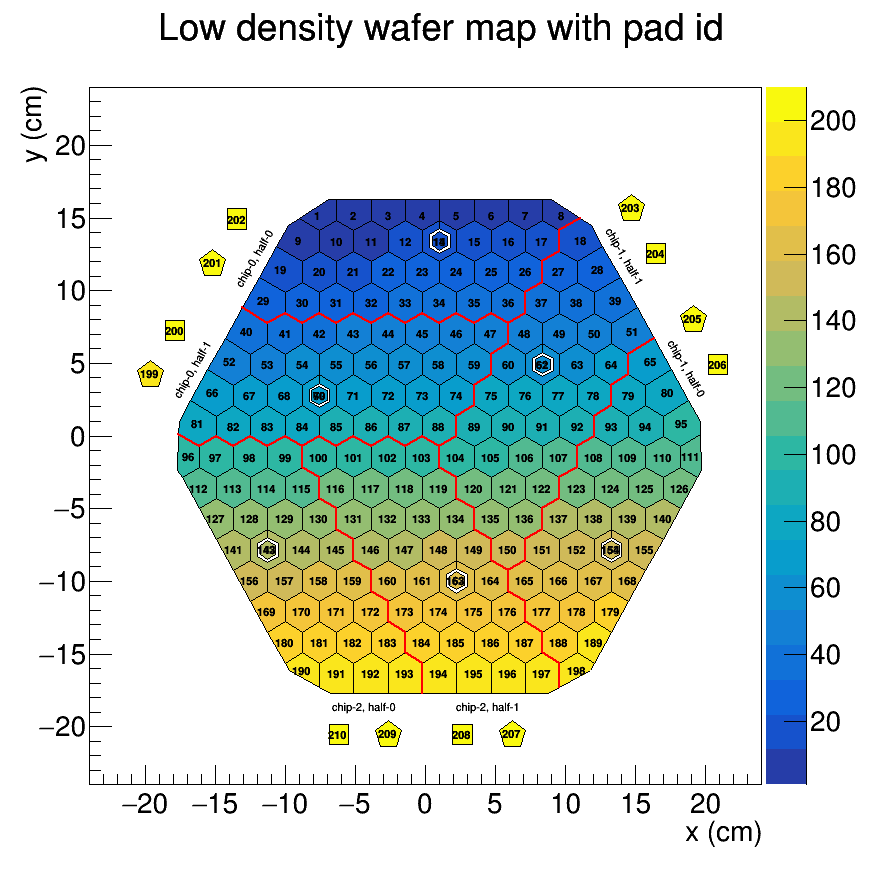
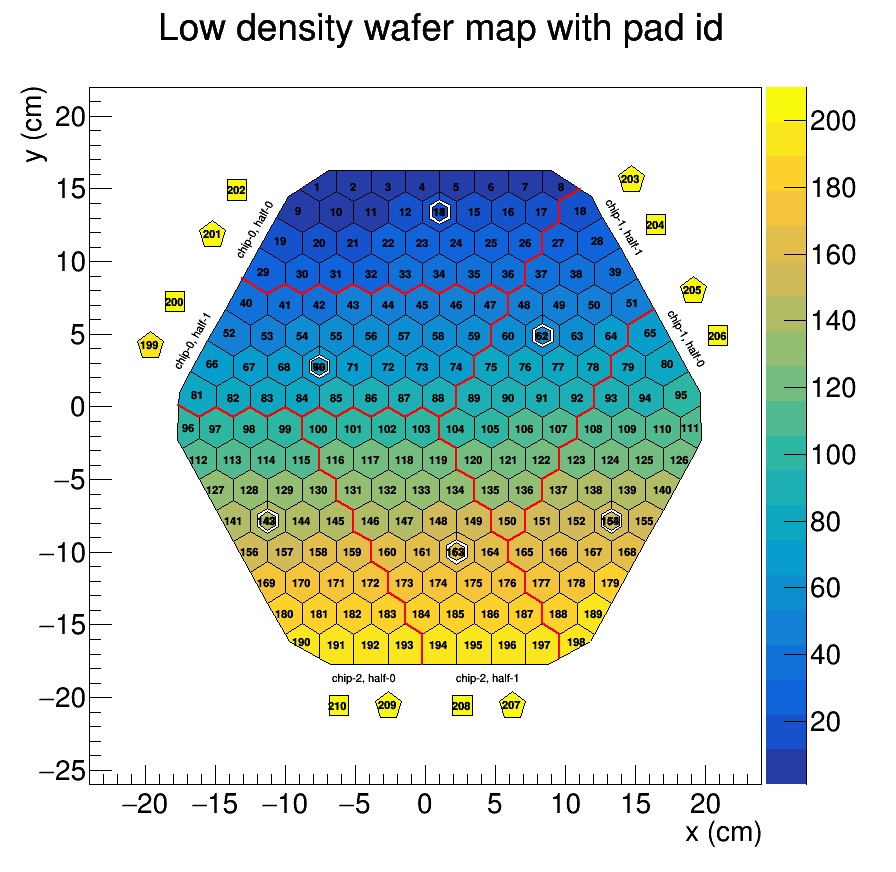
Fine tune scope

diff --git a/th2poly.C b/th2poly.C
@@ -6,7 +6,7 @@ void th2poly(TString inputfile, TString outputfile, double range, bool drawLine=
 
     TFile *f = TFile::Open(inputfile,"R");
 
-    TH2Poly *p = new TH2Poly("hexagonal histograms", "Low density wafer map with pad id", -1*range, range, -1*range, range);
+    TH2Poly *p = new TH2Poly("hexagonal histograms", "Low density wafer map with pad id", -1*range, range, -1*range-2, range-2);
     p->SetStats(0);
     p->GetXaxis()->SetTitle("x (cm)");
     p->GetYaxis()->SetTitle("y (cm)");
